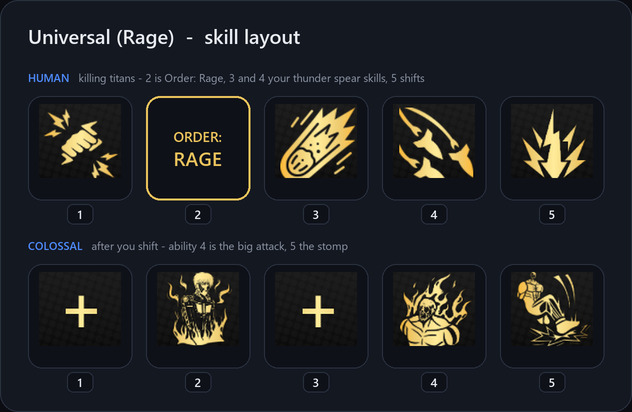
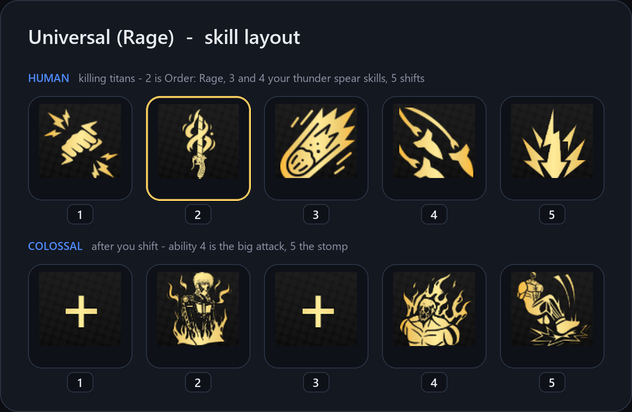
Fix: next mission not detected after retry; remove extra spear throws
- Rage preset: the Order: Rage icon is built in (nothing to capture). Without
  a captured picture the macro had nothing to look for after a retry, so the
  next mission never started. Its size is learned on its own.
- Windowed Roblox: the window's spot is checked every 3 s while waiting for
  the next mission (it was checked once, so a window moved during the loading
  was never watched again).
- Says once in the log what it is waiting for if no start icon shows for 45 s.
- An error while reading the end screen no longer stops the macro.
- The extra single thunder spear throws are removed (they got players
  killed). Rage = Order: Rage on key 2, same sequence as Normal.
- Rage skill layout picture shows the real Order: Rage icon.

Changed region(s): [[0.2706, 0.2621, 0.3608, 0.4369], [0.3908, 0.2621, 0.4209, 0.466], [0.2405, 0.466, 0.3908, 0.4951]]

diff --git a/colossal_macro.py b/colossal_macro.py
@@ -878,9 +878,9 @@ PICTURES = {
     "start": _pic("Mission start icon", "Detection", {"normal": "mission_start.png", "low": "low/mission_start.png"}, 0.80,
                   "Your ability 2 icon (the yellow speedometer) on the skill bar, in a mission in human form. "
                   "A mission starts when the macro sees it."),
-    "start_rage": _pic("Mission start icon (Order: Rage)", "Detection", {}, 0.80,
-                       "Universal with the Rage preset only: your Order: Rage icon on key 2, in a mission in human "
-                       "form. Capture it once - the mission starts when the macro sees it."),
+    "start_rage": _pic("Mission start icon (Order: Rage)", "Detection", {"normal": "start_rage.png"}, 0.75,
+                       "Universal with the Rage preset only: your Order: Rage icon (the burning dagger) on key 2, in a "
+                       "mission in human form. Built in - the mission starts when the macro sees it."),
     "retry": _pic("Retry button", "Detection", {"normal": "retry_text.png", "low": "low/retry_text.png"}, 0.90,
                   "The word RETRY on the end screen. Drag the box tightly around the word."),
     "retry_alt": _pic("Retry button with counter", "Detection", {"normal": "alt_retry_button.png"}, 0.85,
@@ -935,6 +935,7 @@ LOOT_SHORT = {"scroll": "Scrolls", "vessel": "Vessels", "body": "Body", "defence
               "beast_serum": "Beast", "colossal_serum": "Colossal"}
 RETRY_SCALES = (0.7, 0.75, 0.8, 0.85, 0.9, 0.95, 1.0, 1.05, 1.1, 1.15, 1.2, 1.3)  # windowed games can be smaller
 START_SCALES = RETRY_SCALES
+SCALE_OF = {"retry": "retry_scale", "retry_alt": "retry_scale", "start": "start_scale", "start_rage": "rage_scale"}
 
 
 def loot_kinds_for(raid):
@@ -1282,6 +1283,8 @@ class Detector:
         self.retry_scans = 0
         self.start_scale = cfg.get("start_scale")
         self.start_scans = 0
+        self.rage_scale = cfg.get("rage_scale")
+        self.rage_scans = 0
         self.checks = {}
         self._grab_failed = False
         self.grabber = ScreenGrabber(self.mon)
@@ -1421,41 +1424,51 @@ class Detector:
         shot = self.grab()
         if shot is None:
             return None
-        if key != "start":
+        if key not in ("start", "start_rage"):
             return self.find(key, shot, threshold=threshold)
-        m = self.find(key, shot, self.start_scales(), threshold=threshold)
-        if m and (self.start_scale is None or abs(m.scale - self.start_scale) > 0.001):
+        name = "rage_scale" if key == "start_rage" else "start_scale"
+        learned = getattr(self, name)
+        m = self.find(key, shot, self.start_scales(key), threshold=threshold)
+        if m and (learned is None or abs(m.scale - learned) > 0.001):
             # A new size: the first one that passes may be a step off - keep the best nearby size.
             near = [round(m.scale + d_, 3) for d_ in (-0.05, -0.025, 0.025, 0.05)]
             better = self.best_any(key, shot, near)
             if better and better.score > m.score:
                 m = better
                 self.hints[key] = (m.scale, m.cx - m.w / 2.0, m.cy - m.h / 2.0)
-            self.start_scale = m.scale
-            self.cfg["start_scale"] = m.scale
-            self.log("Mission start icon matched at size x%.2f (score %.2f) - remembered" % (m.scale, m.score))
+            setattr(self, name, m.scale)
+            self.cfg[name] = m.scale
+            self.log("%s matched at size x%.2f (score %.2f) - remembered" % (PICTURES[key]["label"], m.scale, m.score))
             if self.save_cb:
                 self.save_cb()
         return m
 
-    def start_scales(self):
-        """Sizes to try for the start icon: the remembered one (now and then another), or 1.0 and the others in
-        turn until it has been seen - a windowed game can draw its skill bar smaller or bigger."""
-        self.start_scans += 1
-        n = self.start_scans
-        if self.start_scale is not None:
-            out = [self.start_scale]
+    def start_scales(self, key="start"):
+        """Sizes to try for a start icon: the remembered one (now and then another), or a first guess and the
+        others in turn until it has been seen - a windowed game can draw its skill bar smaller or bigger."""
+        rage = key == "start_rage"
+        if rage:
+            self.rage_scans += 1
+            n, learned = self.rage_scans, self.rage_scale
+        else:
+            self.start_scans += 1
+            n, learned = self.start_scans, self.start_scale
+        if learned is not None:
+            out = [learned]
             if n % 16 == 0:
-                others = [s for s in START_SCALES if abs(s - self.start_scale) > 0.001]
+                others = [s for s in START_SCALES if abs(s - learned) > 0.001]
                 out.append(others[(n // 16) % len(others)])
             return out
-        others = [s for s in START_SCALES if s != 1.0]
-        return [1.0] if n % 2 else [1.0, others[(n // 2) % len(others)]]
+        first = 1.0
+        if rage and self.start_scale is not None and self.pics(key) and not self.own.get(key):
+            first = self.start_scale  # the built-in Order: Rage icon sits on the same skill bar as the speedometer
+        others = [s for s in START_SCALES if abs(s - first) > 0.001]
+        return [first] if n % 2 else [first, others[(n // 2) % len(others)]]
 
     def titan_scales(self):
         """Sizes for the titan bar icons: around the size the speedometer was seen at."""
-        hint = self.hints.get("start")
-        base = hint[0] if hint else (self.start_scale or 1.0)
+        hint = self.hints.get("start") or self.hints.get("start_rage")
+        base = hint[0] if hint else (self.start_scale or self.rage_scale or 1.0)
         return tuple(round(base * s, 3) for s in TITAN_SCALES)
 
     def start_keys(self, raid):
@@ -1721,12 +1734,7 @@ FIELDS = {
         Field("Ability 4", "after_ability", "Wait after ability 4", "sec", 0.6, 0, 10, "Pause before the shift sequence starts."),
         Field("Order: Rage", "rage", "Key 2 is Order: Rage", "bool", False,
               help="On (Rage preset): Order: Rage is on key 2 instead of Order: Advance and is pressed at the same "
-                   "moment. The mission start is then spotted by your Order: Rage icon - capture it once in Settings > "
-                   "Pictures (Mission start icon - Order: Rage)."),
-        Field("Thunder spear throws", "spear_throws", "Extra thunder spear throws", "int", 0, 0, 5,
-              help="After the triple thunder spear, this many single thunder spears are thrown (left click). 0 = off."),
-        Field("Thunder spear throws", "throw_interval", "Time between throws", "sec", 0.8, 0.1, 5,
-              "Pause before each throw."),
+                   "moment. The mission start is then spotted by the Order: Rage icon (built in)."),
     ] + _shift_fields(),
     "Female Raid": [
         Field("Chests", "chest1", "Chest 1", "spot", None,
@@ -1858,6 +1866,7 @@ def default_config():
         "reconnect": {"enabled": False, "spots": {}, "click_delay": 2.5, "play_delay": 0.5},
         "retry_scale": None,
         "start_scale": None,
+        "rage_scale": None,
         "stats": {"missions": new_family_stats(), "raids": new_family_stats(), "best": {}},
         "learned": {},  # things the macro worked out by itself (auto-learned picture, Speed finder progress)
     }
@@ -1955,9 +1964,10 @@ def load_config():
         except (TypeError, ValueError):
             pass
 
-    ss_ = saved.get("start_scale")
-    if isinstance(ss_, (int, float)) and 0.5 <= ss_ <= 2:
-        cfg["start_scale"] = float(ss_)
+    for name in ("start_scale", "rage_scale"):
+        ss_ = saved.get(name)
+        if isinstance(ss_, (int, float)) and 0.5 <= ss_ <= 2:
+            cfg[name] = float(ss_)
     rs = saved.get("retry_scale")
     if isinstance(rs, (int, float)) and 0.5 <= rs <= 2:
         cfg["retry_scale"] = float(rs)
@@ -2254,8 +2264,8 @@ ROUTINE_STEPS = {
     "Blood Awakening": ["Ability 2", "Dashing", "Strafe left", "Shift", "Shifted 4", "Ability 5", "Retry"],
     "Shiki": ["Ability 2", "Dashing", "Strafe", "Ability 3", "Buying time", "Ability 4", "Shift", "Shifted 4",
               "Ability 5", "Retry"],
-    "Universal": ["Ability 2", "Dashing", "Strafe", "Ability 3", "Looking down", "Ability 4", "Spear throws", "Shift",
-                  "Shifted 4", "Ability 5", "Retry"],
+    "Universal": ["Ability 2", "Dashing", "Strafe", "Ability 3", "Looking down", "Ability 4", "Shift", "Shifted 4",
+                  "Ability 5", "Retry"],
     "Female Raid": ["Using buffs", "Shifting", "Killing Eren", "Killing Female", "Opening chests", "Retry"],
 }
 SCAN_INTERVAL = 0.5
@@ -2285,6 +2295,8 @@ FINDER_STEP = 1.0               # ...seconds taken off per try
 FINDER_KNOBS = {"strafe": ("Blood Awakening", "strafe_left_time", "Strafe left time", 2.0, "dash"),
                 "dash": ("Shared", "dash_time", "Dash spam time", 3.0, "done")}  # section, key, label, floor, next
 ICON_GONE_TIMEOUT = 20.0
+FOLLOW_WINDOW_EVERY = 3.0      # while waiting for a mission: check the Roblox window's spot this often
+START_HINT_AFTER = 45.0        # no start icon this long -> say once what is being looked for
 RESCAN_RETRY_AFTER = 25.0       # still no mission this long after a retry click -> look for retry again
 GRAB_REPEAT = 1.0
 LOOT_SCAN_TIME = 1.0
@@ -2770,6 +2782,7 @@ class Engine:
         if resized:
             self.cfg["retry_scale"] = None
             self.cfg["start_scale"] = None
+            self.cfg["rage_scale"] = None
             self.out.put(("save",))
         self.det = Detector(self.cfg, self.log, save_cb=lambda: self.out.put(("save",)), mon=region)
         self.log("Roblox window %s - now watching %dx%d" % ("resized" if resized else "moved", region["width"],
@@ -2790,8 +2803,23 @@ class Engine:
             self.log("Waiting for the mission to start")
         waited_from = time.time()
         fast = self.fast()
+        next_follow, hinted = waited_from + FOLLOW_WINDOW_EVERY, False
         while True:
             self.tick(scan=scan_retry or time.time() - waited_from > RESCAN_RETRY_AFTER)
+            now = time.time()
+            if now >= next_follow:
+                # The window can be moved / resized while the next mission loads: keep watching the right spot.
+                next_follow = now + FOLLOW_WINDOW_EVERY
+                try:
+                    self.follow_window()
+                except Exception as e:
+                    self.log("Could not follow the Roblox window (%s)" % e)
+            if not hinted and not self.raid_mode and now - waited_from > START_HINT_AFTER:
+                hinted = True
+                rage = self.routine == "Universal" and self.rt("rage")
+                self.log("Still waiting: the %s isn't showing on key 2 yet. If a mission is already running, check "
+                         "that it is on key 2 and visible (or press %s to start by hand)"
+                         % ("Order: Rage icon" if rage else "ability 2 icon (speedometer)", key_display(self.k("start"))))
             if self.manual_start:
                 self.manual_start = False
                 self.log("Manual start")
@@ -2898,14 +2926,6 @@ class Engine:
                 self.show("Ability 4", "Spamming ability 4 for %gs" % self.rt("ability4_time"))
                 self.log("Ability 4 spam for %gs" % self.rt("ability4_time"))
                 self.spam_key_for(self.k("ability4"), self.rt("ability4_time"), self.rt("ability4_interval"), "ability 4")
-                throws = int(self.rt("spear_throws"))
-                if throws > 0:
-                    self.set_step("Spear throws")
-                    self.log("Throwing %d single thunder spear%s (left click)" % (throws, "" if throws == 1 else "s"))
-                    for i in range(throws):
-                        self.show("Spear throws", "Throw %d of %d" % (i + 1, throws))
-                        self.wait(self.rt("throw_interval"))
-                        mouse_click()
                 self.wait(self.rt("after_ability"))
             else:
                 self.set_step("Buying time")
@@ -3721,7 +3741,11 @@ class Engine:
             self.count("retries")
         if track:
             self.show("Retry clicked" if not stop_reason else "Last run", "Reading the result and loot...")
-            result, found = self.read_end_screen([f for f in [first] + frames if f is not None])
+            try:
+                result, found = self.read_end_screen([f for f in [first] + frames if f is not None])
+            except Exception as e:  # never let reading the loot stop the grind
+                result, found = None, {}
+                self.log("Could not read the end screen (%s: %s) - carrying on" % (type(e).__name__, e))
             if result:
                 self.count(result)
                 self.log("Result: %s" % result.capitalize())
@@ -3951,9 +3975,6 @@ class Engine:
                 self.log("Session limit: stops %s%s" % (" or ".join(lim), ", then closes Roblox"
                                                          if self.cfg["app"].get("close_roblox_at_end") else ""))
             trim_run_log()
-            if (self.routine == "Universal" and self.rt("rage") and not os.path.isfile(own_picture_path("start_rage"))):
-                self.log("Rage preset: capture your Order: Rage icon first (Settings > Pictures > Mission start icon "
-                         "(Order: Rage)) - until then press %s in a mission to start" % key_display(self.k("start")))
             self.reconnect_on = False
             if self.cfg["reconnect"]["enabled"]:
                 missing = reconnect_missing(self.cfg, self.raid_mode)
@@ -4904,9 +4925,7 @@ class SettingsWindow:
                 if sec == "Universal":
                     box2 = self.section(sf.inner, "Universal style",
                                         "Normal: Order: Advance on key 2, meteor then triple thunder spear. Rage: Order: "
-                                        "Rage on key 2 instead (more damage - Avatar of Ymir not needed) and 2 single "
-                                        "thunder spear throws after the triple. Rage needs your Order: Rage picture "
-                                        "(Pictures > Mission start icon - Order: Rage).")
+                                        "Rage on key 2 instead (more damage - Avatar of Ymir not needed), same sequence.")
                     pr2 = tk.Frame(box2, bg=CARD)
                     pr2.pack(anchor="w")
                     Btn(pr2, "Normal preset", lambda: self.load_preset("Universal", "normal")).pack(side="left")
@@ -4985,11 +5004,8 @@ class SettingsWindow:
         if speed in ("rage", "normal"):
             rage = speed == "rage"
             self.set_timing("Universal", "rage", rage)
-            self.set_timing("Universal", "spear_throws", 2 if rage else 0)
-            msg = ("Rage preset loaded: Order: Rage on key 2 + 2 thunder spear throws - press Save" if rage
-                   else "Normal preset loaded: Order: Advance on key 2, no extra throws - press Save")
-            if rage and not os.path.isfile(own_picture_path("start_rage")):
-                msg += ". Then capture your Order: Rage icon (Pictures > Mission start icon - Order: Rage)"
+            msg = ("Rage preset loaded: Order: Rage on key 2 - press Save" if rage
+                   else "Normal preset loaded: Order: Advance on key 2 - press Save")
             self.note(msg, GOOD)
             return
         if speed:
@@ -5123,8 +5139,8 @@ class SettingsWindow:
             return
         os.makedirs(PICTURES_DIR, exist_ok=True)
         img.convert("RGB").save(own_picture_path(key))
-        if key in ("retry", "retry_alt", "start"):
-            self.cfg["retry_scale" if key != "start" else "start_scale"] = None
+        if key in SCALE_OF:
+            self.cfg[SCALE_OF[key]] = None
             save_config(self.cfg)
         if key == "shifted" and self.cfg["learned"].pop("shifted", None) is not None:
             save_config(self.cfg)  # captured by hand now, not learned
@@ -5165,8 +5181,8 @@ class SettingsWindow:
         path = own_picture_path(key)
         if os.path.isfile(path):
             os.remove(path)
-            if key in ("retry", "retry_alt"):
-                self.cfg["retry_scale"] = None
+            if key in SCALE_OF:
+                self.cfg[SCALE_OF[key]] = None
                 save_config(self.cfg)
             if key == "shifted" and self.cfg["learned"].pop("shifted", None) is not None:
                 save_config(self.cfg)  # gone: Auto-learn may save a new one
@@ -5495,6 +5511,7 @@ class SettingsWindow:
         if new_mon != self.cfg["app"]["monitor"]:
             self.cfg["retry_scale"] = None
             self.cfg["start_scale"] = None
+            self.cfg["rage_scale"] = None
         self.cfg["app"]["monitor"] = new_mon
         ok = save_config(self.cfg)
         self.app.discord.restart_bot()
@@ -5657,7 +5674,6 @@ BUILDS = {
         ("Artifacts", "Colossal Scars and Cloak, both with TS Dmg%", False),
         ("Memories", "Apotheosis (required)", True),
         ("Optional", "Afterimages, any legendary memory, or memories that add damage", False),
-        ("One-time setup", "Capture your Order: Rage icon: Settings > Pictures > Mission start icon (Order: Rage)", True),
         ("Avoid", _AVOID, False)]},
     "Female Raid": {"layout": "female", "rows": [
         ("Family", "Fritz", False),

diff --git a/README.md b/README.md
@@ -39,10 +39,10 @@ Put your skills on these keys (or change the keys in the app: Settings > Keybind
 ### Universal - Rage preset (more damage, no Avatar of Ymir needed)
 ![Universal Rage skill layout](assets/layouts/universal_rage.png)
 - **Turn it on:** in the app, Settings > Timings > Universal > **Rage preset** (Normal preset switches back)
-- **Key 2:** Order: Rage instead of Order: Advance; after the triple thunder spear the macro throws 2 single thunder spears (left click)
+- **Key 2:** Order: Rage instead of Order: Advance; the rest of the sequence is the same
 - **Perks:** Kengo or Godforged, Immortal, Founder's Blessing, Munition Masters - Avatar of Ymir not needed
 - **Memories:** **Apotheosis** (required); optional: Afterimages, any legendary memory or memories that add damage
-- **One-time setup:** capture your Order: Rage icon - Settings > Pictures > Mission start icon (Order: Rage)
+- The Order: Rage icon is built in - nothing to capture
 
 ### Female Raid
 ![Female Raid skill layout](assets/layouts/female.png)
